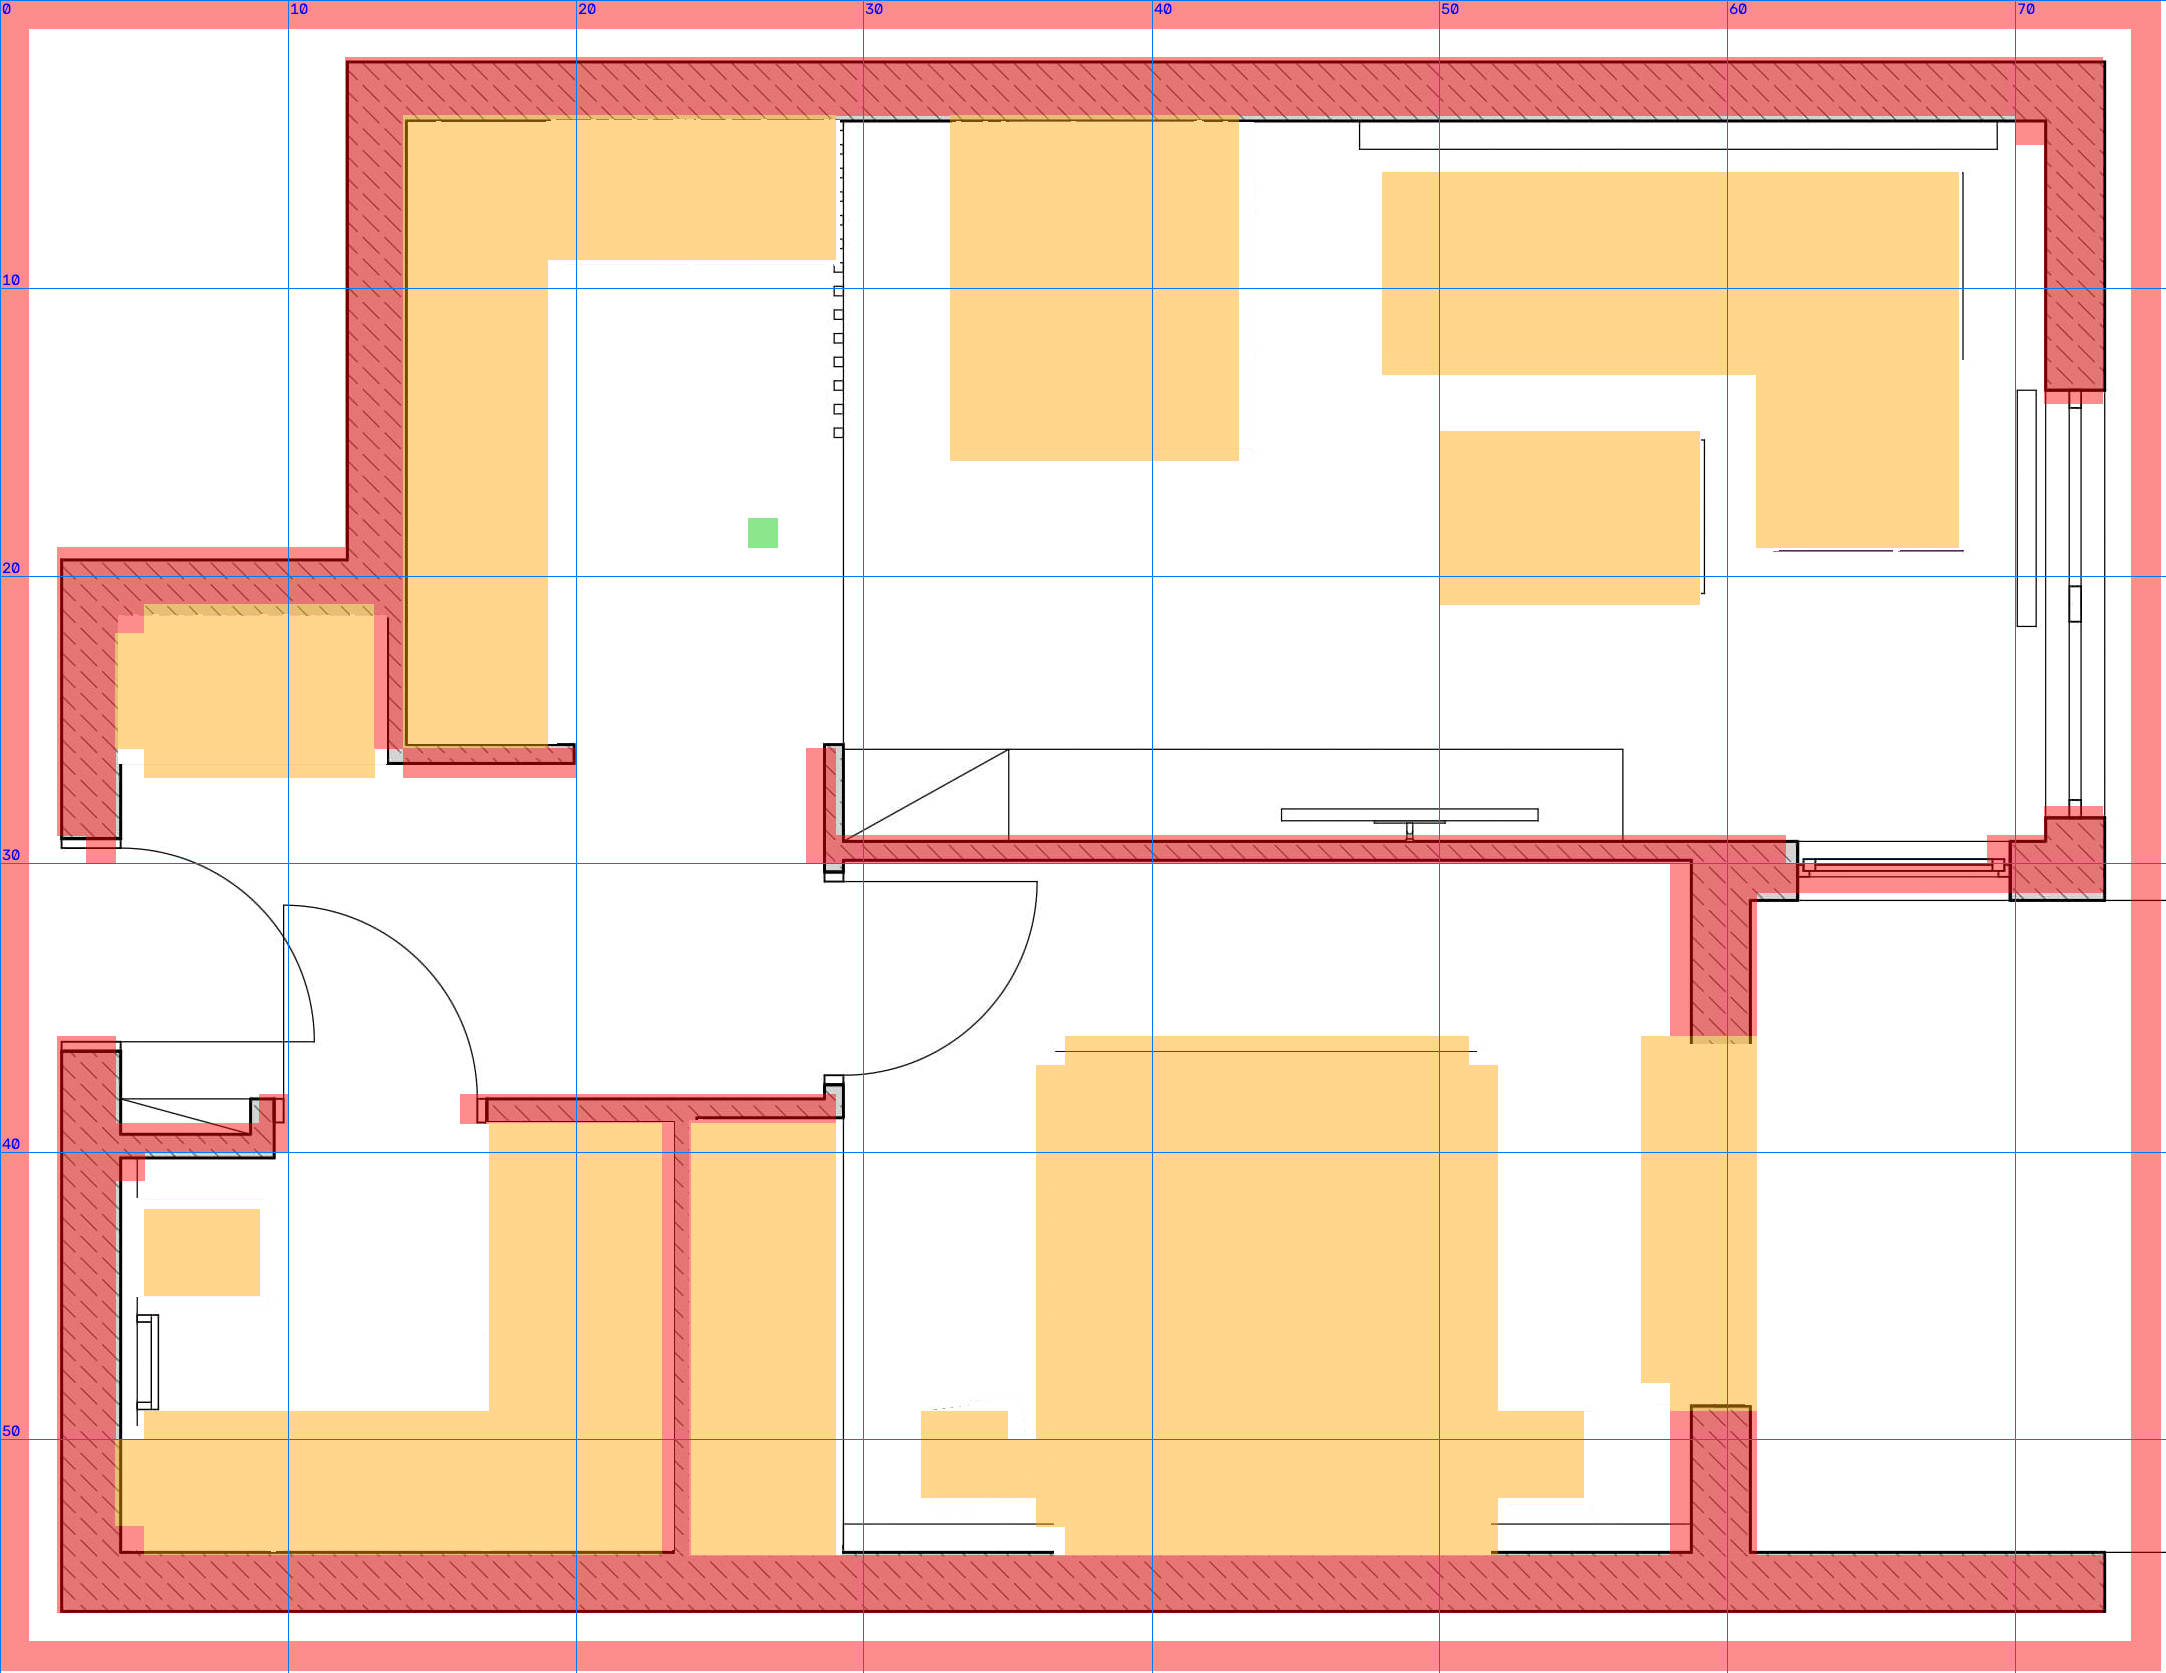
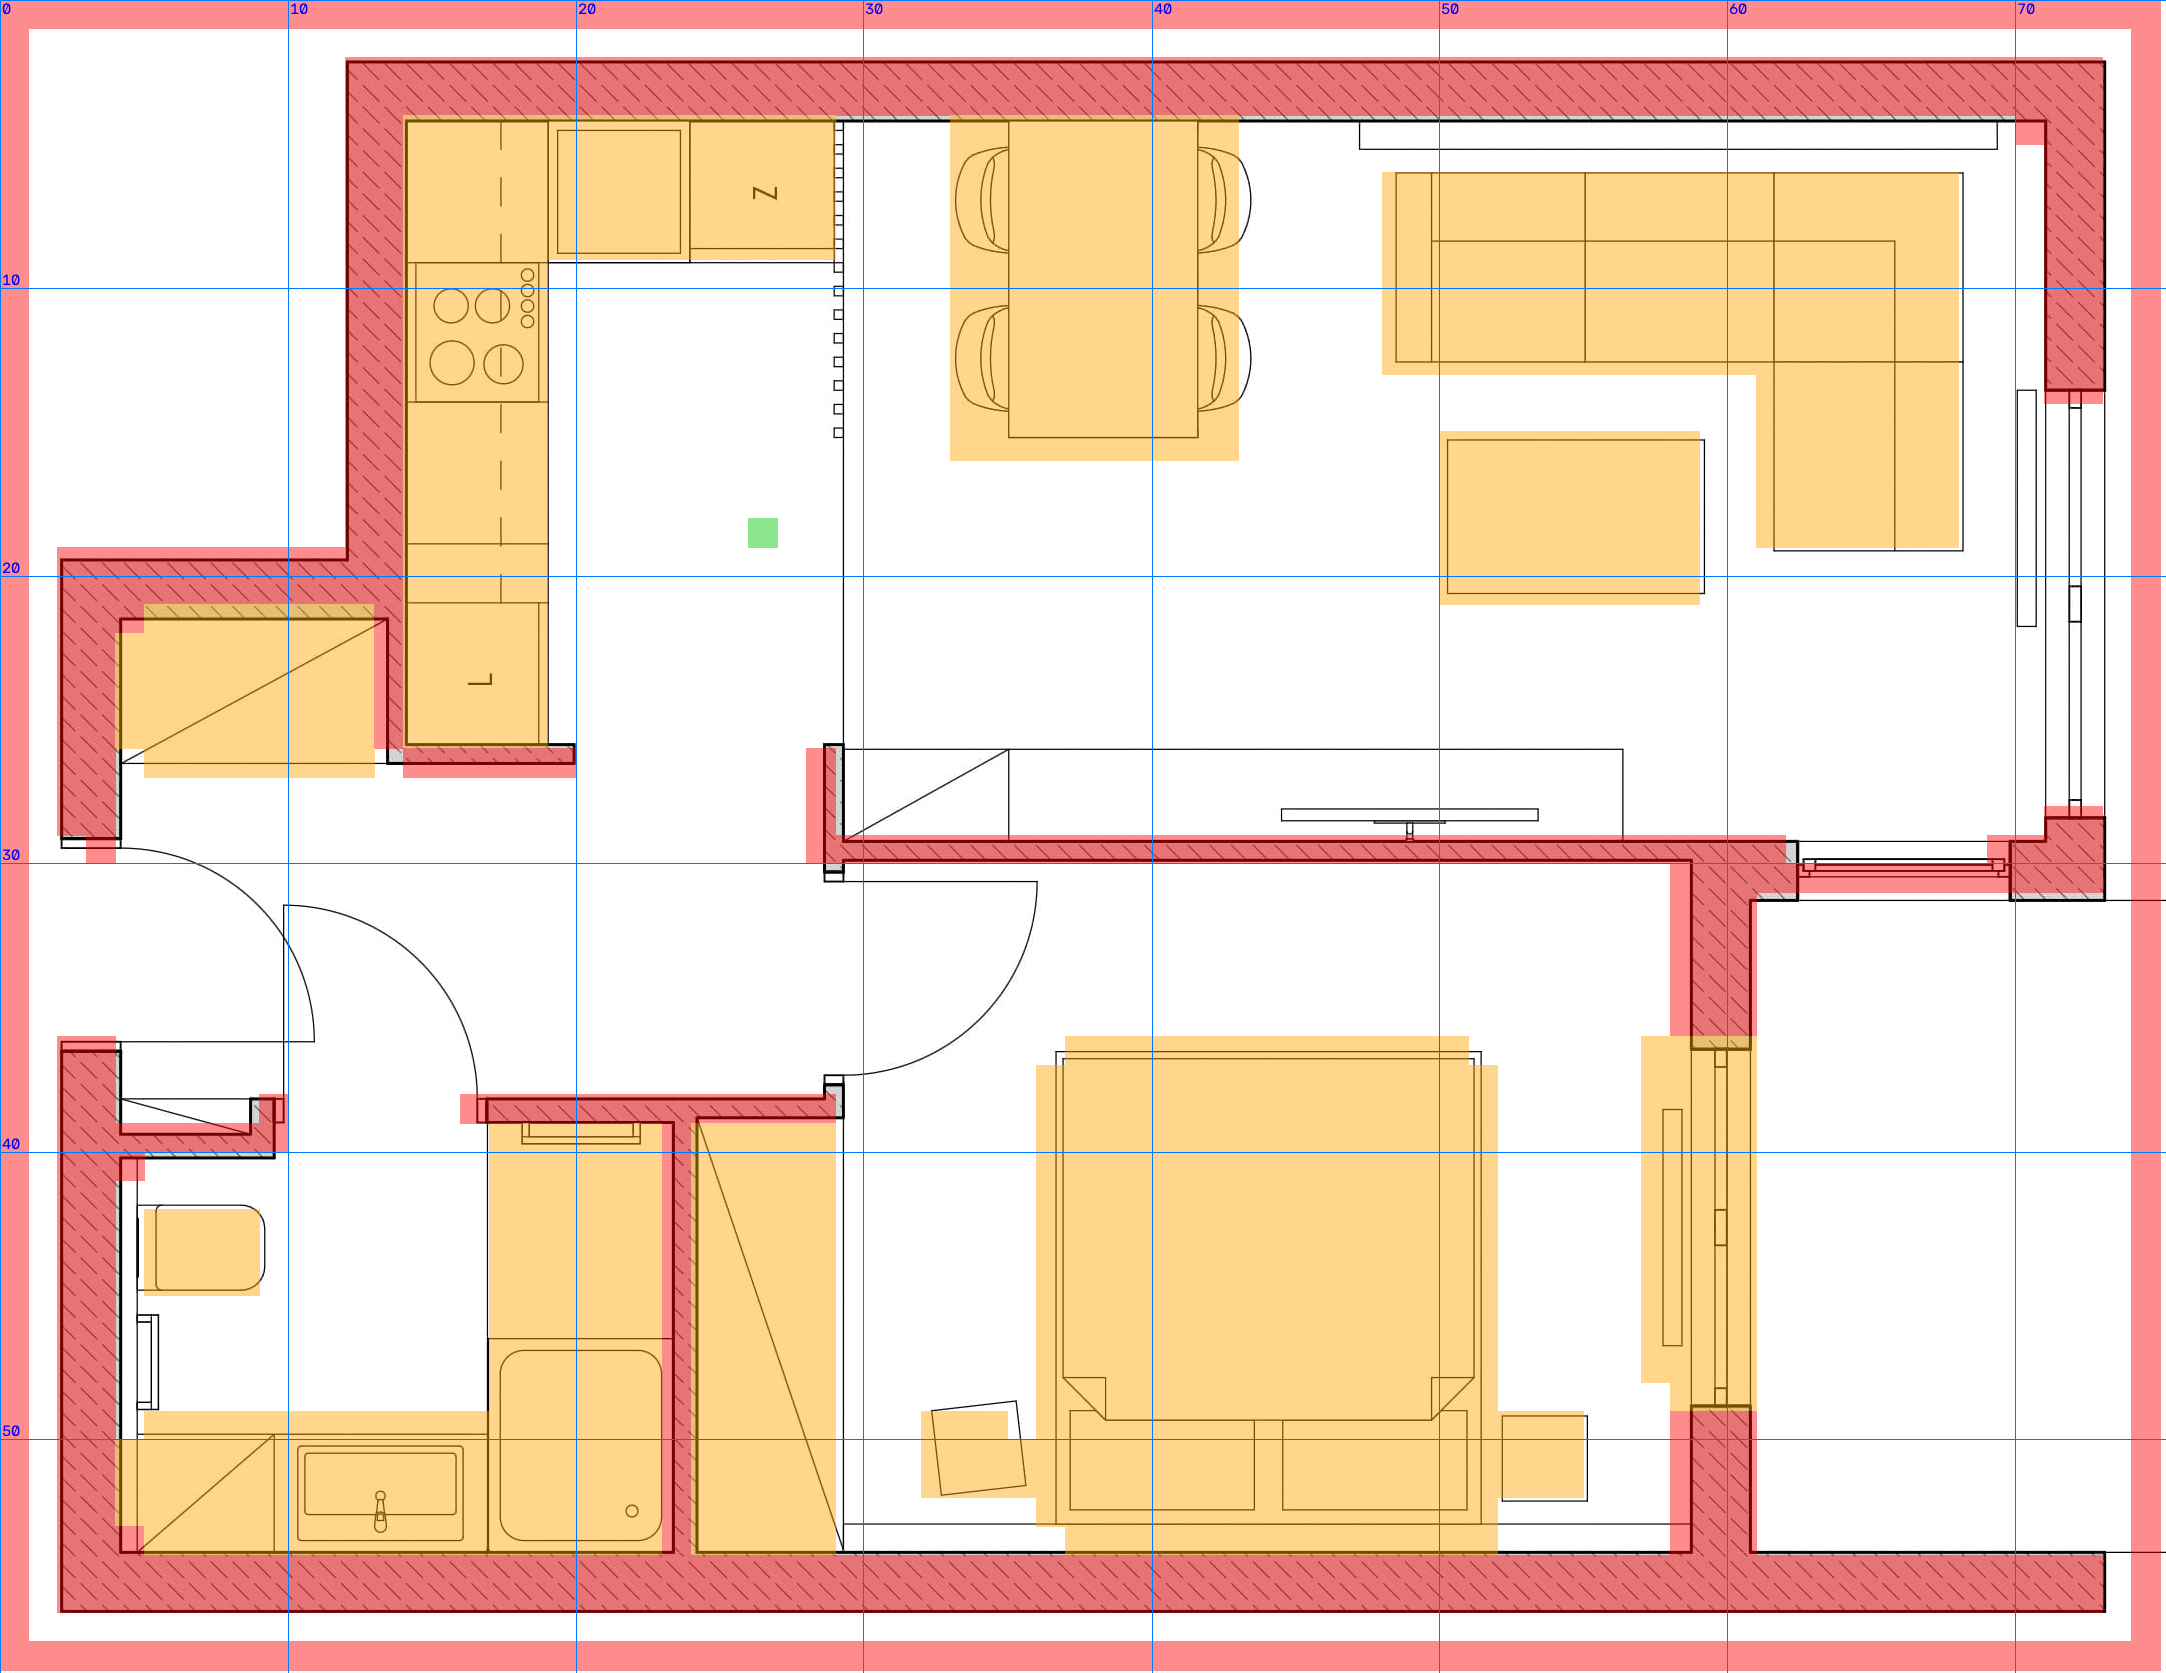
Use map_02.jpg as background, edit file for collisions

diff --git a/slidefire/tools/painted_to_map.py b/slidefire/tools/painted_to_map.py
@@ -4,8 +4,8 @@ Użycie (z folderu slidefire):
     python tools/painted_to_map.py maps/map_02_edit.jpg --px-per-cm 2.4
 
 Ściany to szare, kreskowane wypełnienie rzutu; fioletowe plamy to meble 'F'.
-Zapisuje maps/map_02.txt oraz maps/map_02.png (rzut z zamalowanymi na biało meblami,
-używany jako tło w grze). Wokół domu dodawana jest ściana, żeby nie wyjść poza mapę.
+Zapisuje maps/map_02.txt. Tłem w grze jest maps/map_02.jpg (czysty rzut), jeśli istnieje i ma ten sam rozmiar;
+w przeciwnym razie powstaje map_02.png z zamalowanymi meblami. Wokół domu dodawana jest ściana, żeby nie wyjść poza mapę.
 """
 import argparse
 from pathlib import Path
@@ -58,10 +58,14 @@ def main() -> None:
     sr, sc = np.unravel_index(dist.argmax(), dist.shape)
     grid[sr, sc] = "P"
 
-    clean = img.copy()
-    clean[magenta_full(img)] = 255
-    out_img = src.with_name(src.stem.replace("_edit", "") + ".png")
-    cv2.imwrite(str(out_img), clean)
+    base = src.with_name(src.stem.replace("_edit", "") + ".jpg")
+    if base.exists() and cv2.imread(str(base)).shape == img.shape:
+        out_img = base
+    else:
+        out_img = base.with_suffix(".png")
+        clean = img.copy()
+        clean[magenta_full(img)] = 255
+        cv2.imwrite(str(out_img), clean)
 
     out = src.with_name(src.stem.replace("_edit", "") + ".txt")
     header = [
